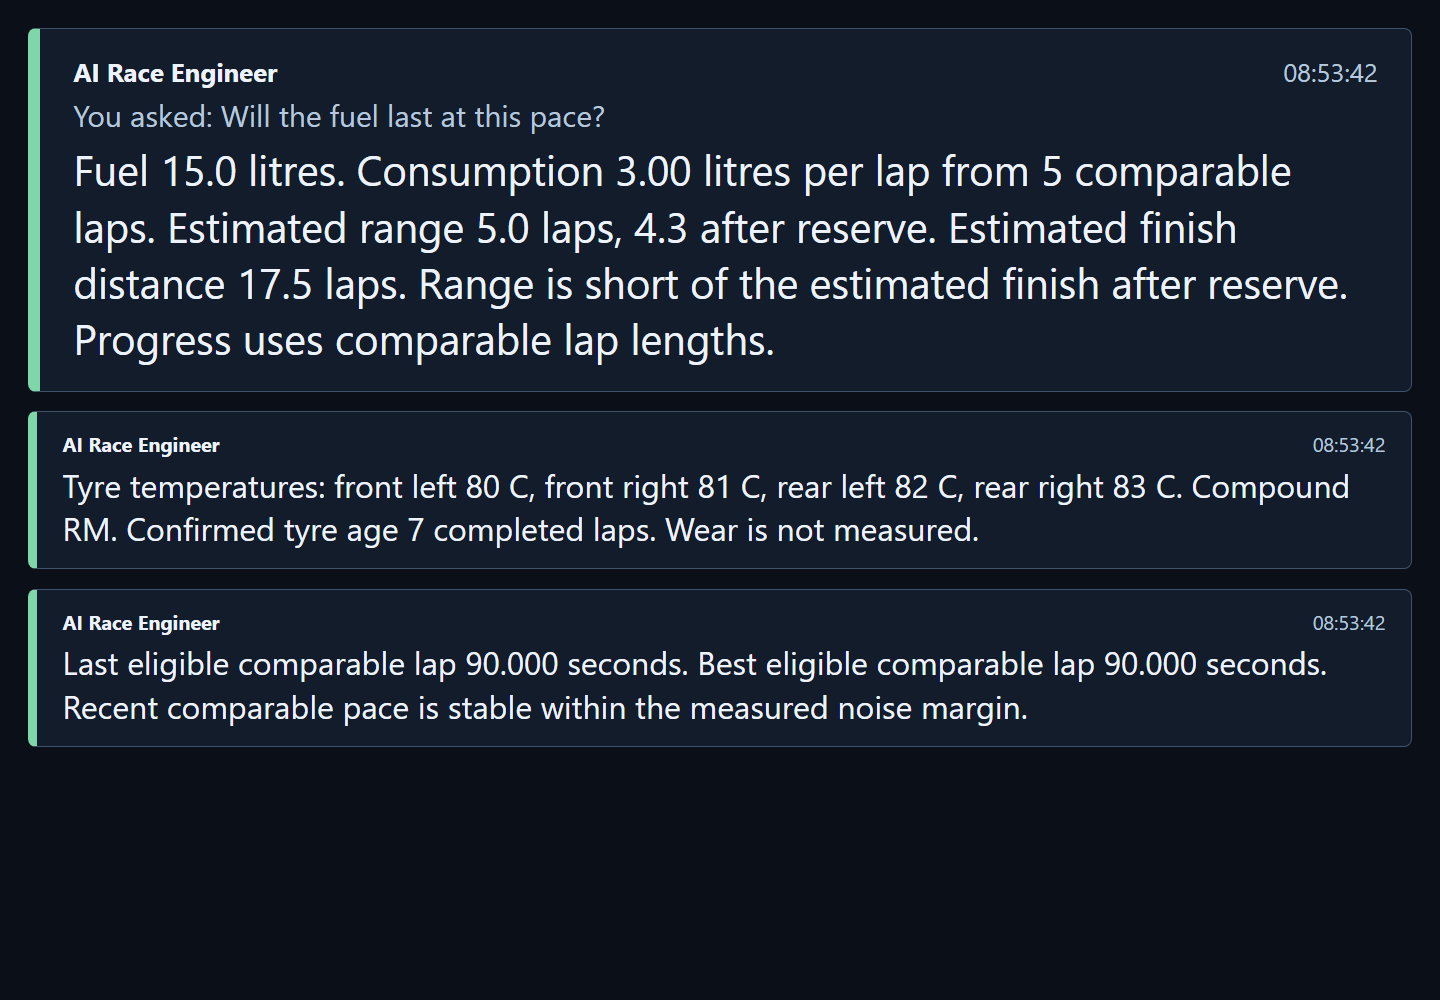
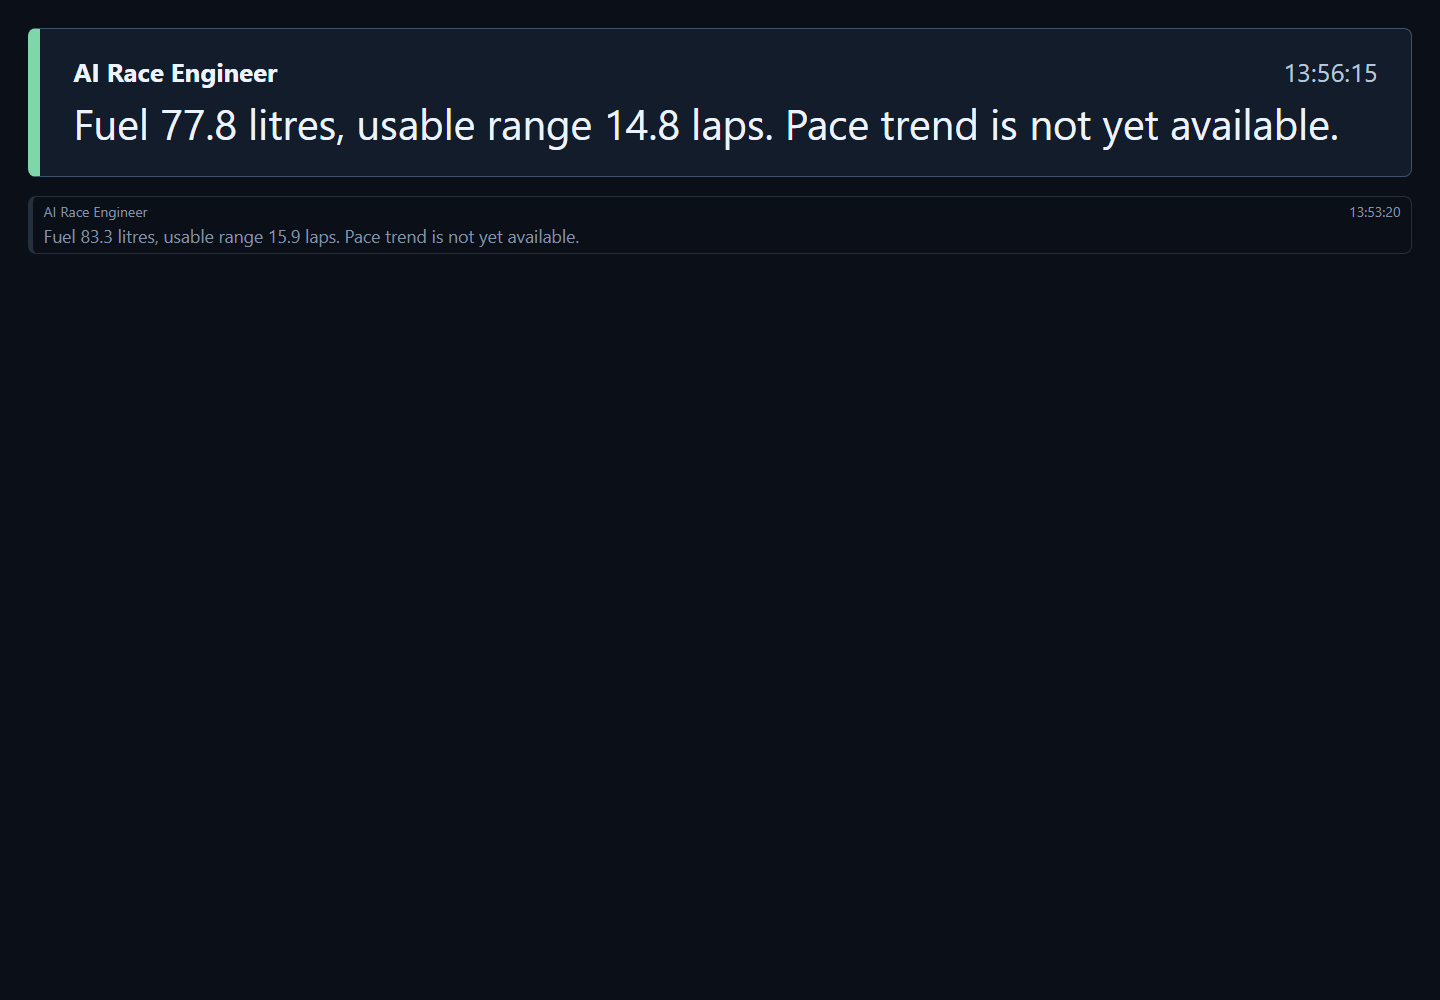
feat(console): dim radio messages past their validity
A message stays on the display after its validity ended, so an old fuel value
looked current. Show it small and strongly dimmed instead. The relay's clock
decides, so a tablet with a wrong clock still dims correctly.

Changed region(s): [[0.0, 0.062, 0.9688, 0.558], [0.0, 0.589, 0.9688, 0.744], [0.9375, 0.186, 0.9688, 0.217]]

diff --git a/src/console/driver-radio-messages.html b/src/console/driver-radio-messages.html
@@ -3,6 +3,7 @@
 :root{color-scheme:dark}*{box-sizing:border-box}[hidden]{display:none!important}body{margin:0;background:#0b1018;color:#edf3fc;font:clamp(20px,2.4vw,32px)/1.35 system-ui,sans-serif}main{padding:clamp(12px,2vw,28px)}a{color:#a9ccff}
 #status{margin:0 0 .6em;color:#ffd27a}#status:empty{display:none}#empty{color:#b7c7dc;margin:0}
 ol{list-style:none;margin:0;padding:0;display:grid;gap:.6em}li{background:#121c2b;border:1px solid #41536b;border-left:.3em solid #41536b;border-radius:8px;padding:.6em .8em}li:first-child{font-size:1.3em}li.coach{border-left-color:#a9ccff}li.engineer{border-left-color:#7fd6a8}li.urgent{border-color:#ff7a6b;background:#2a1518}
+li.old,li.old:first-child{font-size:max(14px,.55em);padding:.3em .6em;background:transparent;border-color:#26303d;border-left-color:#26303d}li.old .text,li.old .note,li.old .meta,li.old .source{color:#8493a8;font-weight:400}
 .meta{display:flex;justify-content:space-between;gap:1em;font-size:max(14px,.62em);color:#b7c7dc}.source{font-weight:700;color:#edf3fc}.text{margin:.15em 0 0;overflow-wrap:anywhere}.note{margin:.2em 0 0;font-size:.72em;color:#b7c7dc;overflow-wrap:anywhere}
 </style></head><body><main><p id="status" role="status"></p><p id="empty" hidden>No messages yet.</p><ol id="messages"></ol></main><script id="messages-view">
 /* Read-only view of the shared radio message lane for a tablet or second monitor. */
@@ -17,9 +18,11 @@ function sourceOf(message){return message.source==='coach'||message.source==='en
 function clock(seconds){return typeof seconds==='number'?new Date(seconds*1000).toLocaleTimeString([],{hour:'2-digit',minute:'2-digit',second:'2-digit'}):'';}
 // A refusal is the hint that a feature is off, not advice, and a cancelled message is withdrawn.
 function visible(messages){return (messages||[]).filter(m=>m.kind!=='refusal'&&m.state!=='cancelled').reverse();}
-function row(message){
- const source=sourceOf(message),li=el('li'),meta=el('div',undefined,'meta');
- li.className=source+(message.severity==='urgent'?' urgent':'');
+// Past its validity a message is history: its values may no longer hold.
+function isOld(message,now){return ['expired','superseded'].includes(message.state)||(typeof message.expires_at==='number'&&now>=message.expires_at);}
+function row(message,now){
+ const source=sourceOf(message),li=el('li'),meta=el('div',undefined,'meta'),old=isOld(message,now);
+ li.className=source+(old?' old':message.severity==='urgent'?' urgent':'');
  meta.append(el('span',LABELS[source],'source'),el('span',clock(message.created_at)));
  li.append(meta);
  if(message.question)li.append(el('p','You asked: '+message.question,'note'));
@@ -27,11 +30,13 @@ function row(message){
  if(message.explanation)li.append(el('p','Interpretation: '+message.explanation,'note'));
  return li;
 }
-function render(messages){
- const key=JSON.stringify(messages);
+function render(messages,now){
+ const key=JSON.stringify([messages,messages.map(message=>isOld(message,now))]);
  if(key===shown)return;
- shown=key;list.replaceChildren(...messages.map(row));empty.hidden=messages.length>0;
+ shown=key;list.replaceChildren(...messages.map(message=>row(message,now)));empty.hidden=messages.length>0;
 }
+// The relay's clock decides validity, so a tablet with a wrong clock still dims correctly.
+function serverNow(response){const sent=Date.parse(response.headers?.get('Date'));return (Number.isNaN(sent)?Date.now():sent)/1000;}
 // A refused view drops what it showed: a switched-off feature leaves no data on screen.
 function refuse(text,link){
  shown=null;list.replaceChildren();empty.hidden=true;status.textContent=text;
@@ -44,7 +49,7 @@ async function poll(){
   if(response.status===401)refuse('Sign in to the Console to see radio messages.',true);
   else if(response.status===403)refuse('Off · enable the AI Race Engineer or the AI Coach in the Control Center');
   else if(!response.ok)status.textContent='Connection lost · retrying';
-  else{const data=await response.json();status.textContent='';render(visible(data.messages));}
+  else{const data=await response.json();status.textContent='';render(visible(data.messages),serverNow(response));}
  }catch(error){status.textContent='Connection lost · retrying';}
  finally{clearTimeout(abort);if(!stopped){clearTimeout(timer);timer=setTimeout(poll,POLL_MS);}}
 }

diff --git a/tools/radio_browser_check.py b/tools/radio_browser_check.py
@@ -1,6 +1,8 @@
 #!/usr/bin/env python3
 """Synthetic browser acceptance for shared driver radio views and producer setup."""
+import json
 import sys
+import time
 import traceback
 from pathlib import Path
 
@@ -116,7 +118,15 @@ def check(browser,outdir,shots=None):
             for width,view in ((1024,'tablet'),(390,'phone'),(1440,'desktop')):
                 display.set_viewport_size({'width':width,'height':1000})
                 assert display.evaluate('document.documentElement.scrollWidth<=innerWidth+1'),'messages display overflows viewport'
-                shot(display,'driver-radio-messages',view,'console-driver-radio-messages.png' if view=='desktop' else None)
+                shot(display,'driver-radio-messages',view)
+            # The wiki shows a current message above one past its validity.
+            now=time.time()
+            aged=[dict(id=n,source='engineer',kind='requested',severity='normal',state='spoken',text=text,created_at=now+age,expires_at=now+age+30)
+                  for n,text,age in ((1,'Fuel 83.3 litres, usable range 15.9 laps. Pace trend is not yet available.',-180),
+                                     (2,'Fuel 77.8 litres, usable range 14.8 laps. Pace trend is not yet available.',-5))]
+            display.route('**/console/driver-radio/messages',lambda route:route.fulfill(status=200,content_type='application/json',body=json.dumps(dict(messages=aged))))
+            display.locator('#messages li.old').first.wait_for()
+            shot(display,'driver-radio-messages-aged',wiki='console-driver-radio-messages.png')
             display.close()
             f.f.request('fuel');f.enricher.step('audio')
             # A Director's Console landing; the Director Panel has no driver radio card.

diff --git a/tests/test_driver_radio_ui.py b/tests/test_driver_radio_ui.py
@@ -610,6 +610,21 @@ def t_messages_view_lists_newest_first_with_its_source():
     assert out['status']=='',out
 
 
+def t_messages_view_dims_a_message_past_its_validity():
+    out=_run_messages_view("""
+     const now=Date.now()/1000,row=(id,fields)=>({id,source:'engineer',kind:'requested',severity:'urgent',state:'spoken',text:'T'+id,created_at:now-60,...fields});
+     routes[%r]=[200,{messages:[row(1,{expires_at:now-1}),row(2,{expires_at:now+30,state:'expired'}),row(3,{expires_at:now+30,state:'superseded'}),row(4,{expires_at:now+30})]}];
+     await view.poll();const first=byId('messages').children.map(r=>r.className);
+     routes[%r][1].messages[3].expires_at=now-1;
+     await view.poll();const later=byId('messages').children.map(r=>r.className);
+     view.stop();console.log(JSON.stringify({first,later}));
+    """%(_LANE,_LANE))
+    if out is None:return
+    assert 'old' not in out['first'][0] and 'urgent' in out['first'][0],out  # Newest first: message 4.
+    assert all('old' in name and 'urgent' not in name for name in out['first'][1:]),out
+    assert 'old' in out['later'][0],'a message that expires while shown dims without a new message'
+
+
 def t_messages_view_keeps_text_on_a_network_error_and_clears_it_when_refused():
     good=[dict(id=1,source='engineer',kind='requested',severity='routine',state='spoken',text='Fuel for 12 laps.',created_at=100)]
     out=_run_messages_view("""

diff --git a/src/docs/wiki/Driver-Radio.md b/src/docs/wiki/Driver-Radio.md
@@ -40,7 +40,10 @@ messages; with the AI Race Engineer alone, no coach messages leave the relay.
 **Radio messages** on the Console launcher opens
 `/console/driver-radio/messages-view`: a read-only display for a tablet or a second
 monitor. It lists the messages of the switched-on features, newest first and in
-large type, each with its source (**AI Race Engineer** or **AI Coach**) and time.
+large type, each with its source (**AI Race Engineer** or **AI Coach**) and time. A
+message past its validity (30 seconds, urgent ones 15) stays listed, small and dimmed,
+because its values may no longer hold. The list empties on a new session or relay restart
+and keeps the last 32 messages.
 It has no controls and needs the same Console sign-in as the driver desk. Switching
 both features off, or signing out, empties it at the next poll; after a connection
 loss it keeps the last messages and retries.
